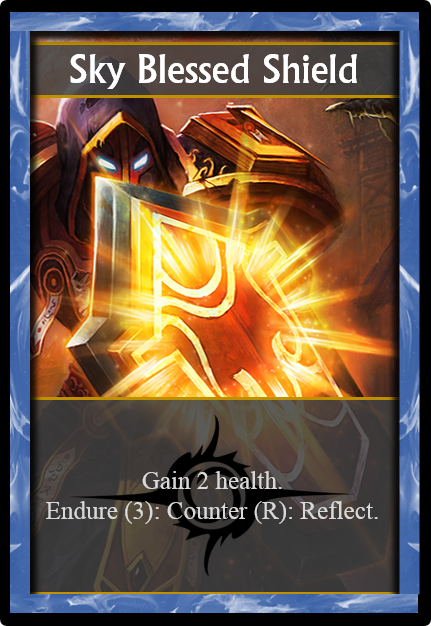
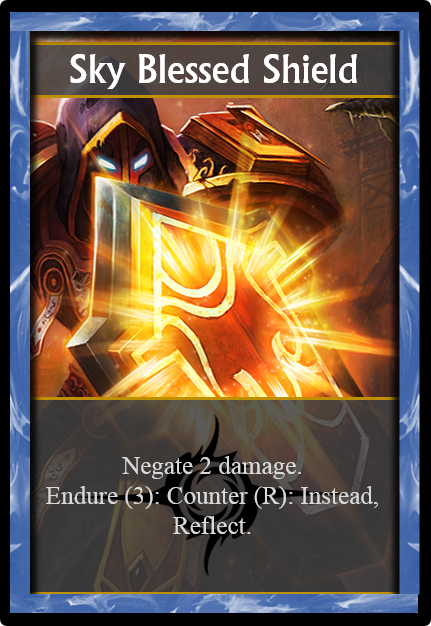
Finished changing cards

Changed region(s): [[0.0905, 0.7284, 0.6937, 0.8498], [0.6937, 0.7588, 0.8747, 0.8498]]

diff --git a/Assets/Characters/Tyras.cs b/Assets/Characters/Tyras.cs
@@ -76,7 +76,7 @@ namespace Warforged
                     while (true)
                     {
                         Game.library.setPromptText("You may choose a standby Offense card to send to your hand.");
-                        Card cardToTake = Game.library.waitForClickOrCancel();
+                        Card cardToTake = Game.library.waitForClickOrCancel("");
                         if (cardToTake == null)
                         {
                             break;
@@ -90,6 +90,7 @@ namespace Warforged
                 }
                 aldrasGuard = false;
             }
+			return damage;
         }
 
         // dusk()
@@ -157,7 +158,7 @@ namespace Warforged
                         // Ideally this should only happen once
                         // But if the user chooses an invalid card, try again
                         Game.library.setPromptText("Choose a blue standby card to send to your hand.");
-                        standbyCard = Game.library.waitForClickOrCancel();
+                        standbyCard = Game.library.waitForClickOrCancel("");
                         if (standbyCard != null) // Safety check
                         {
                             if (standbyCard.color == Color.blue && user.standby.Contains(standbyCard))

diff --git a/Assets/Characters/Edros.cs b/Assets/Characters/Edros.cs
@@ -8,18 +8,26 @@ namespace Warforged
     {
         private bool bolster2;
         private bool bonusEmp;
+		private bool torensGuard;
         public Edros() : base()
         {
             name = "Edros";
             title = "Envoy of Toren";
             bolster2 = false;
             bonusEmp = false;
+			torensGuard = false;
         }
         
 
         /// Deal damage to another character
         public override int dealDamage()
         {
+			// Guard check
+			if (negate > opponent.pierce && opponent.damage > 0 && torensGuard)
+			{
+				torensGuard = false;
+				hp += 2;
+			}
             // Will probably need more logic in the future
             int tempdamage = damage - opponent.negate;
             if (opponent.reflect) {
@@ -400,8 +408,8 @@ namespace Warforged
                 }
                 Game.library.clearAllHighlighting();
                 user.takeStandby(card1);
-                user.takeStandby(card1);
                 user.takeStandby(card2);
+                user.takeStandby(card3);
 
             }
         }

diff --git a/Assets/Characters/Character.cs b/Assets/Characters/Character.cs
@@ -778,7 +778,7 @@ namespace Warforged
         [XmlInclude(typeof(Edros.PillarofLightning))]
         [XmlInclude(typeof(Edros.PurgingLightning))]
         [XmlInclude(typeof(Edros.RollingThunder))]
-        [XmlInclude(typeof(Edros.ScornofThunder))]
+        [XmlInclude(typeof(Edros.ImminentStorm))]
         [XmlInclude(typeof(Edros.SkyBlessedShield))]
         [XmlInclude(typeof(Edros.TorensFavored))]
         [XmlInclude(typeof(Edros.WrathofLightning))]

diff --git a/Assets/Scripts/Game.cs b/Assets/Scripts/Game.cs
@@ -152,7 +152,7 @@ namespace Warforged
                 }
                 p2.invocation.Add(new Edros.WrathofLightning());
                 p2.invocation.Add(new Edros.GraceofHeaven());
-                p2.invocation.Add(new Edros.ScornofThunder());
+                p2.invocation.Add(new Edros.ImminentStorm());
                 p2.invocation.Add(new Edros.CrashingSky());
                 foreach (Character.Card c in p2.invocation)
                 {
